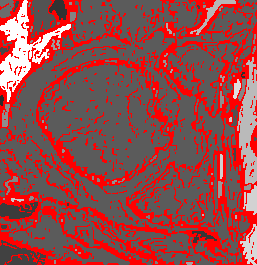
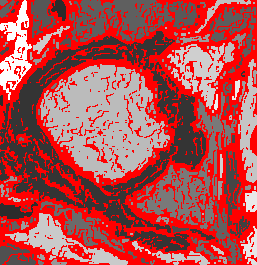
watershed light update

diff --git a/main.cpp b/main.cpp
@@ -45,7 +45,7 @@ int main() {
   //result = logoEUREKA6(png);
   //result.writeToFile("eureka_res.png");
 
-  result = LPE_homemade(png,0.1);
+  result = LPE_homemade(png,0.0725);
   //result = colorToGray(png);
   //result = egalisationHistogram(result);
   result.writeToFile("AAA.png");
